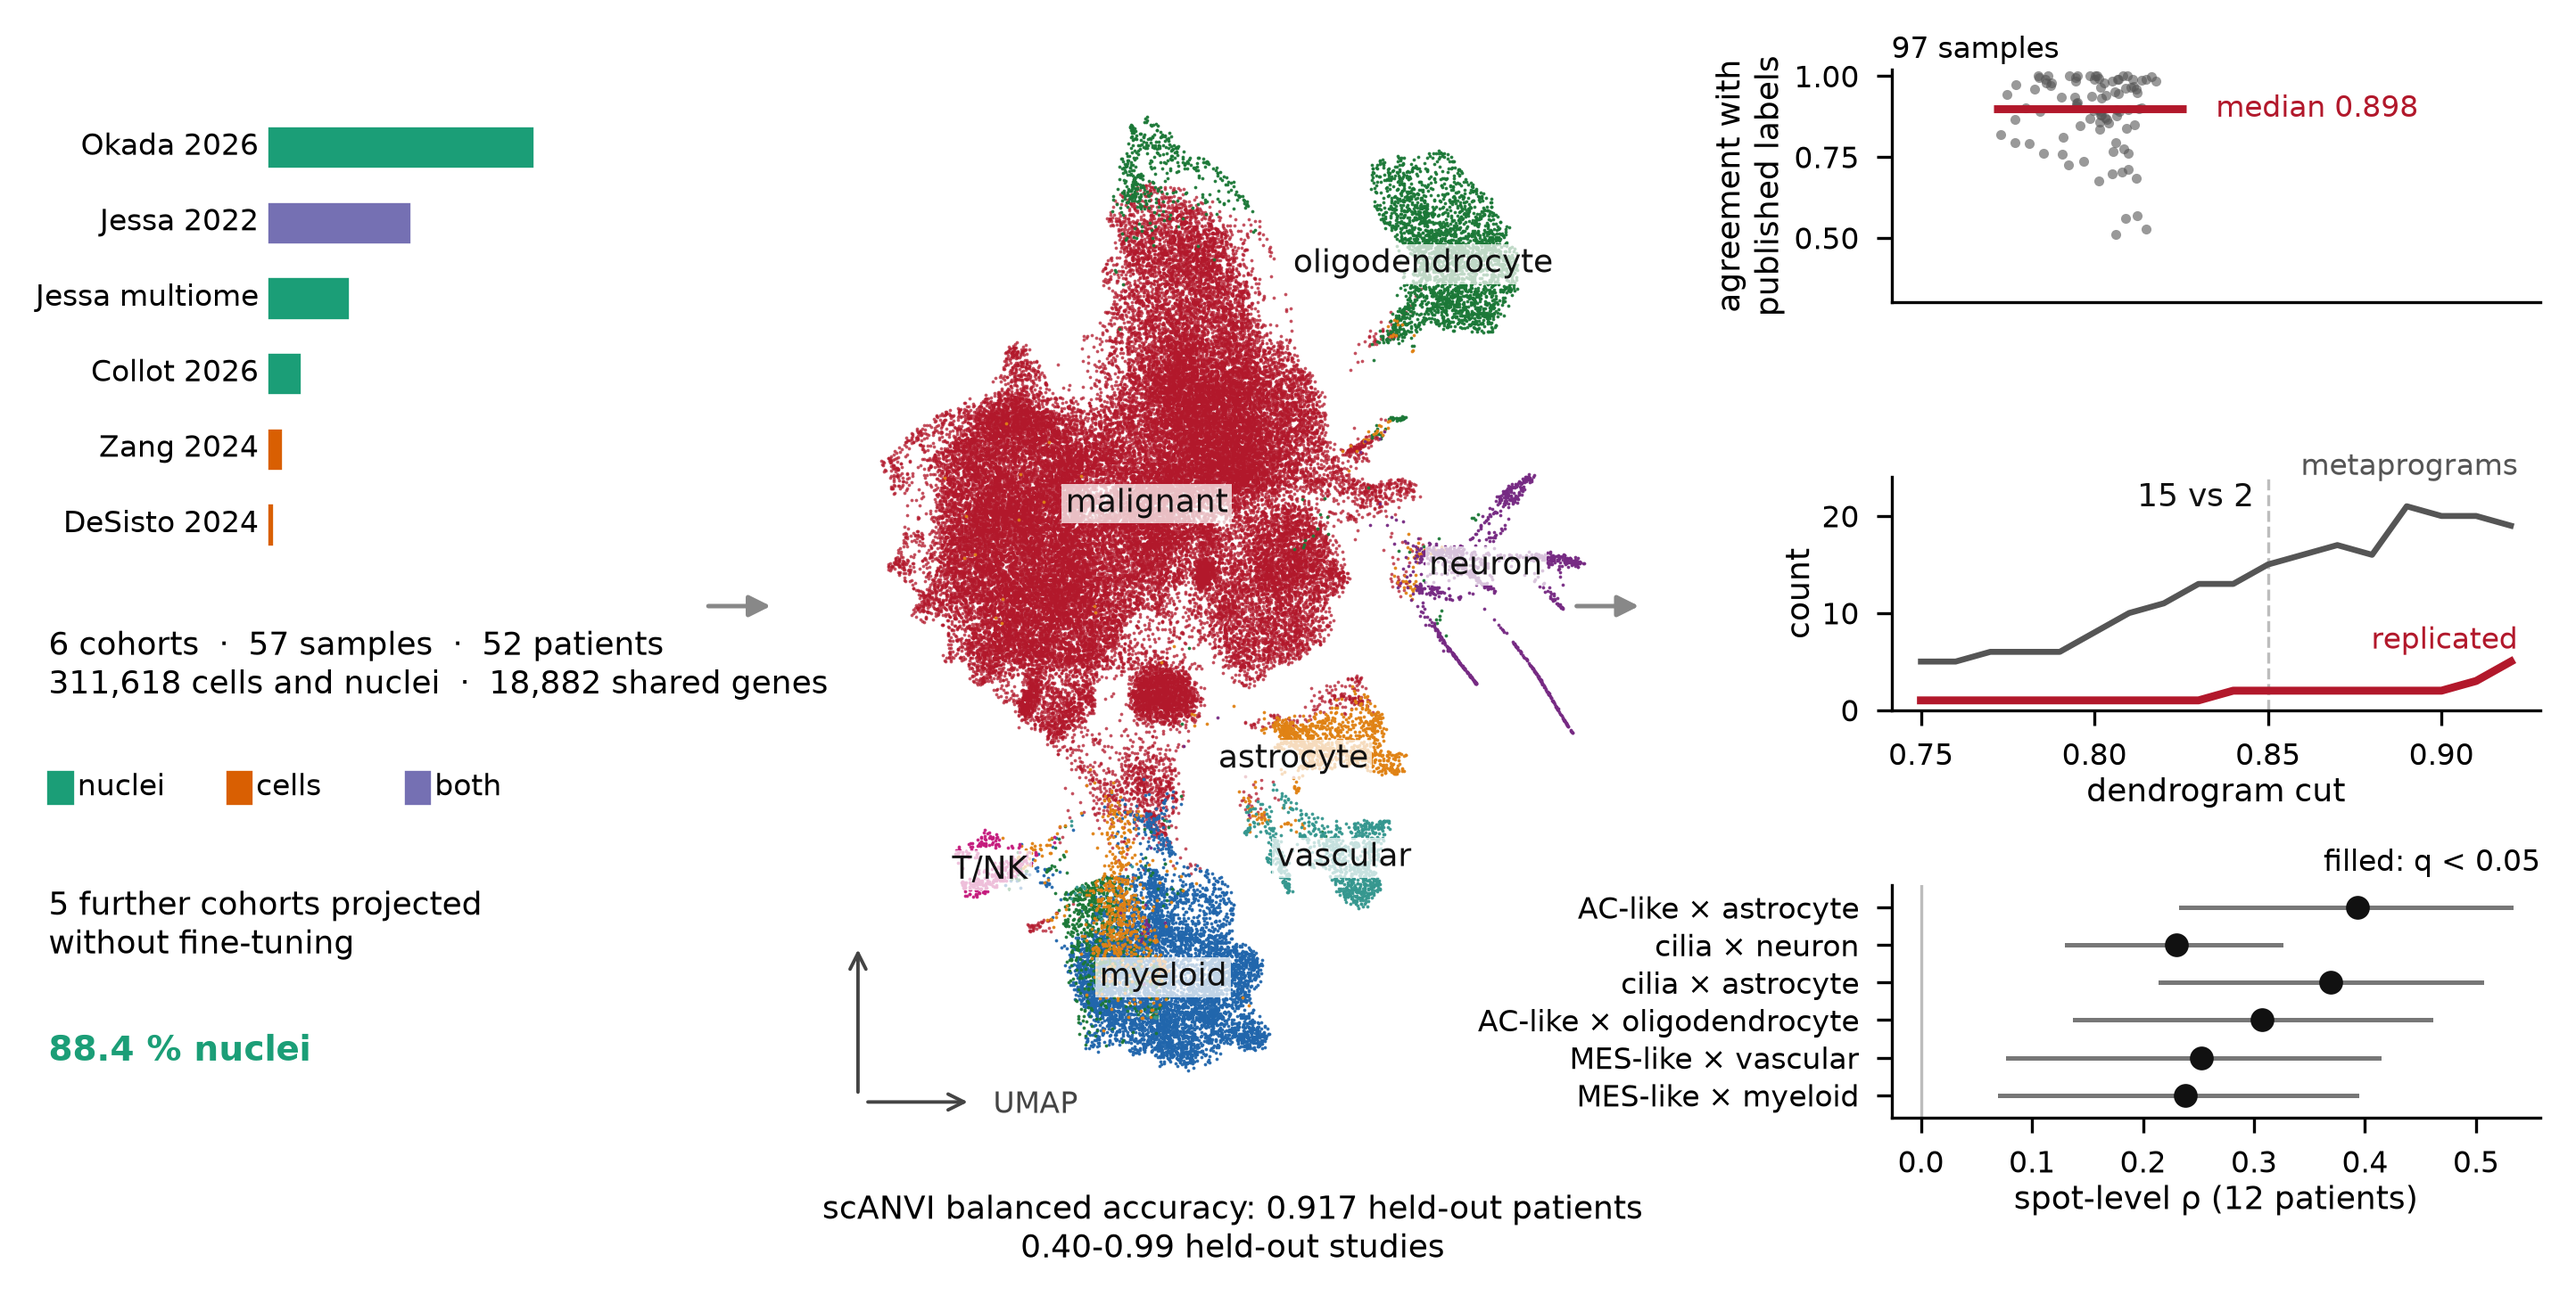
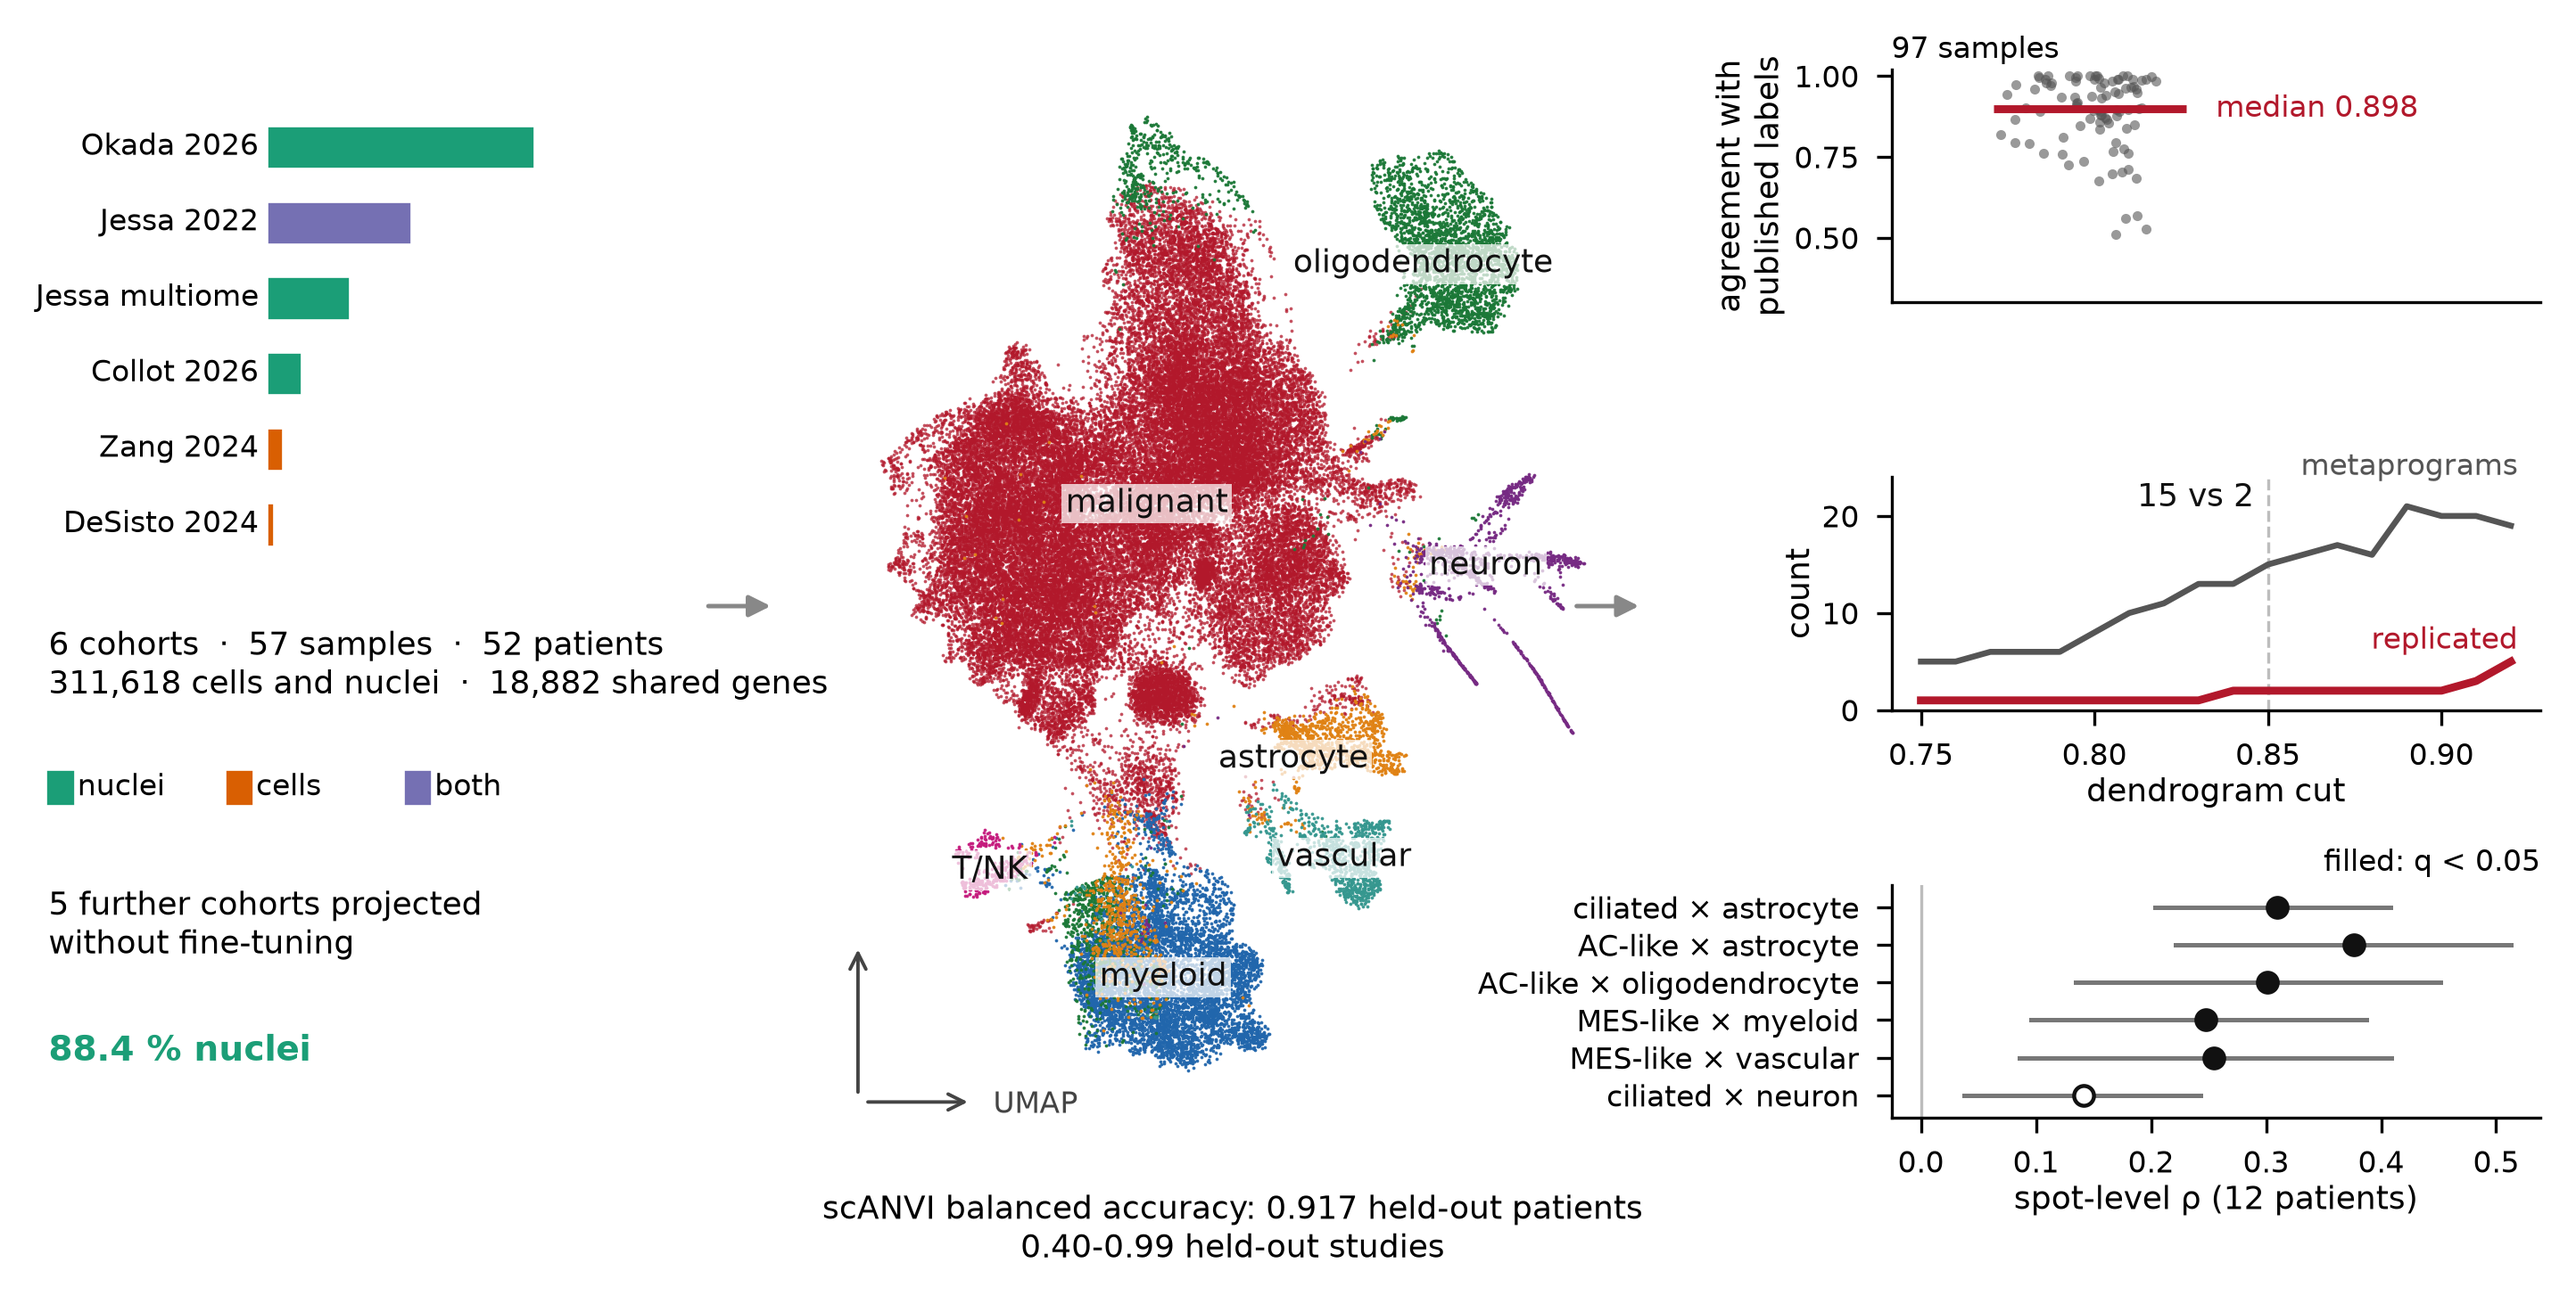
Graphical abstract: spatial panel from the within-assay-class reanalysis

diff --git a/scripts/37_graphical_abstract.py b/scripts/37_graphical_abstract.py
@@ -36,10 +36,10 @@ samp = val[(val.level == "sample") & (val.tier == "tier2_cnv_call") & (val.subse
 
 cut = T("metaprogram_cut_sensitivity.csv")
 
-sp = T("spatial_colocalisation.csv")
+sp = T("spatial_colocalisation_assayz.csv")  # within-assay-class reference (scripts/43-44)
 sp = sp[(sp.metric == "proportion") & (sp.subset == "all") & (sp.pair_type == "state_vs_TME")].copy()
 sp = sp.sort_values("q_bh_state_vs_TME").head(6).iloc[::-1]
-nm = lambda c: (c.replace("malignant_", "").replace("novel_MP9", "cilia").replace("_like", "-like").replace("T_NK", "T/NK"))
+nm = lambda c: (c.replace("malignant_", "").replace("novel_MP9", "ciliated").replace("_like", "-like").replace("T_NK", "T/NK"))
 
 # ---------------------------------------------------------------- canvas
 FS.apply_figure_style(sizes=(8, 7, 6))
